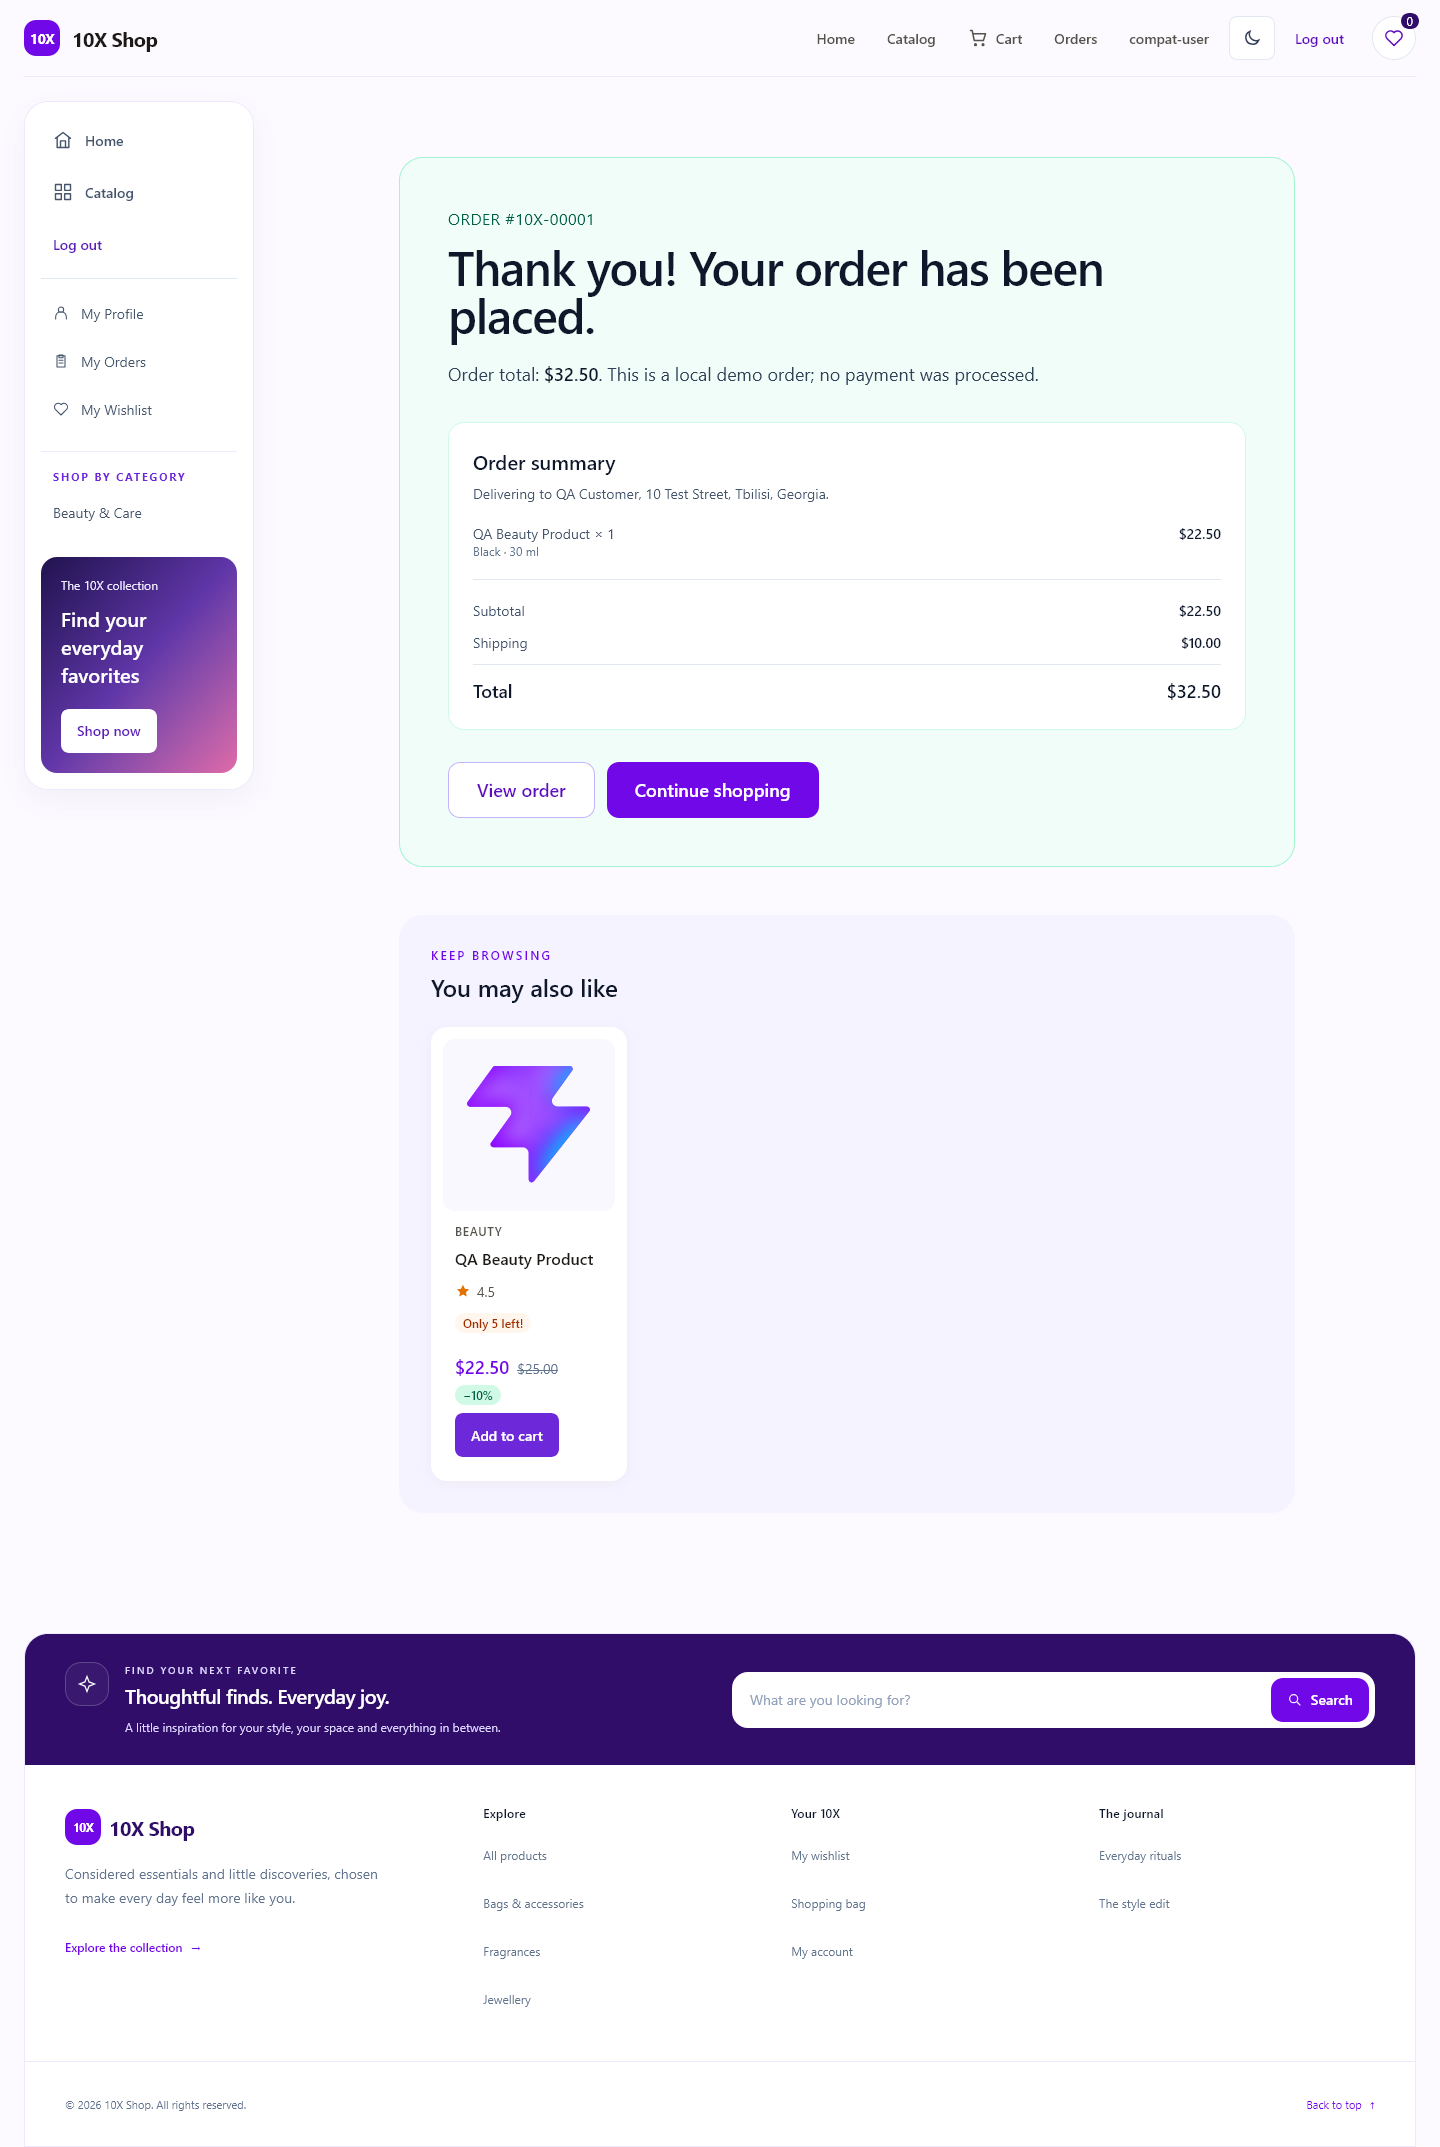
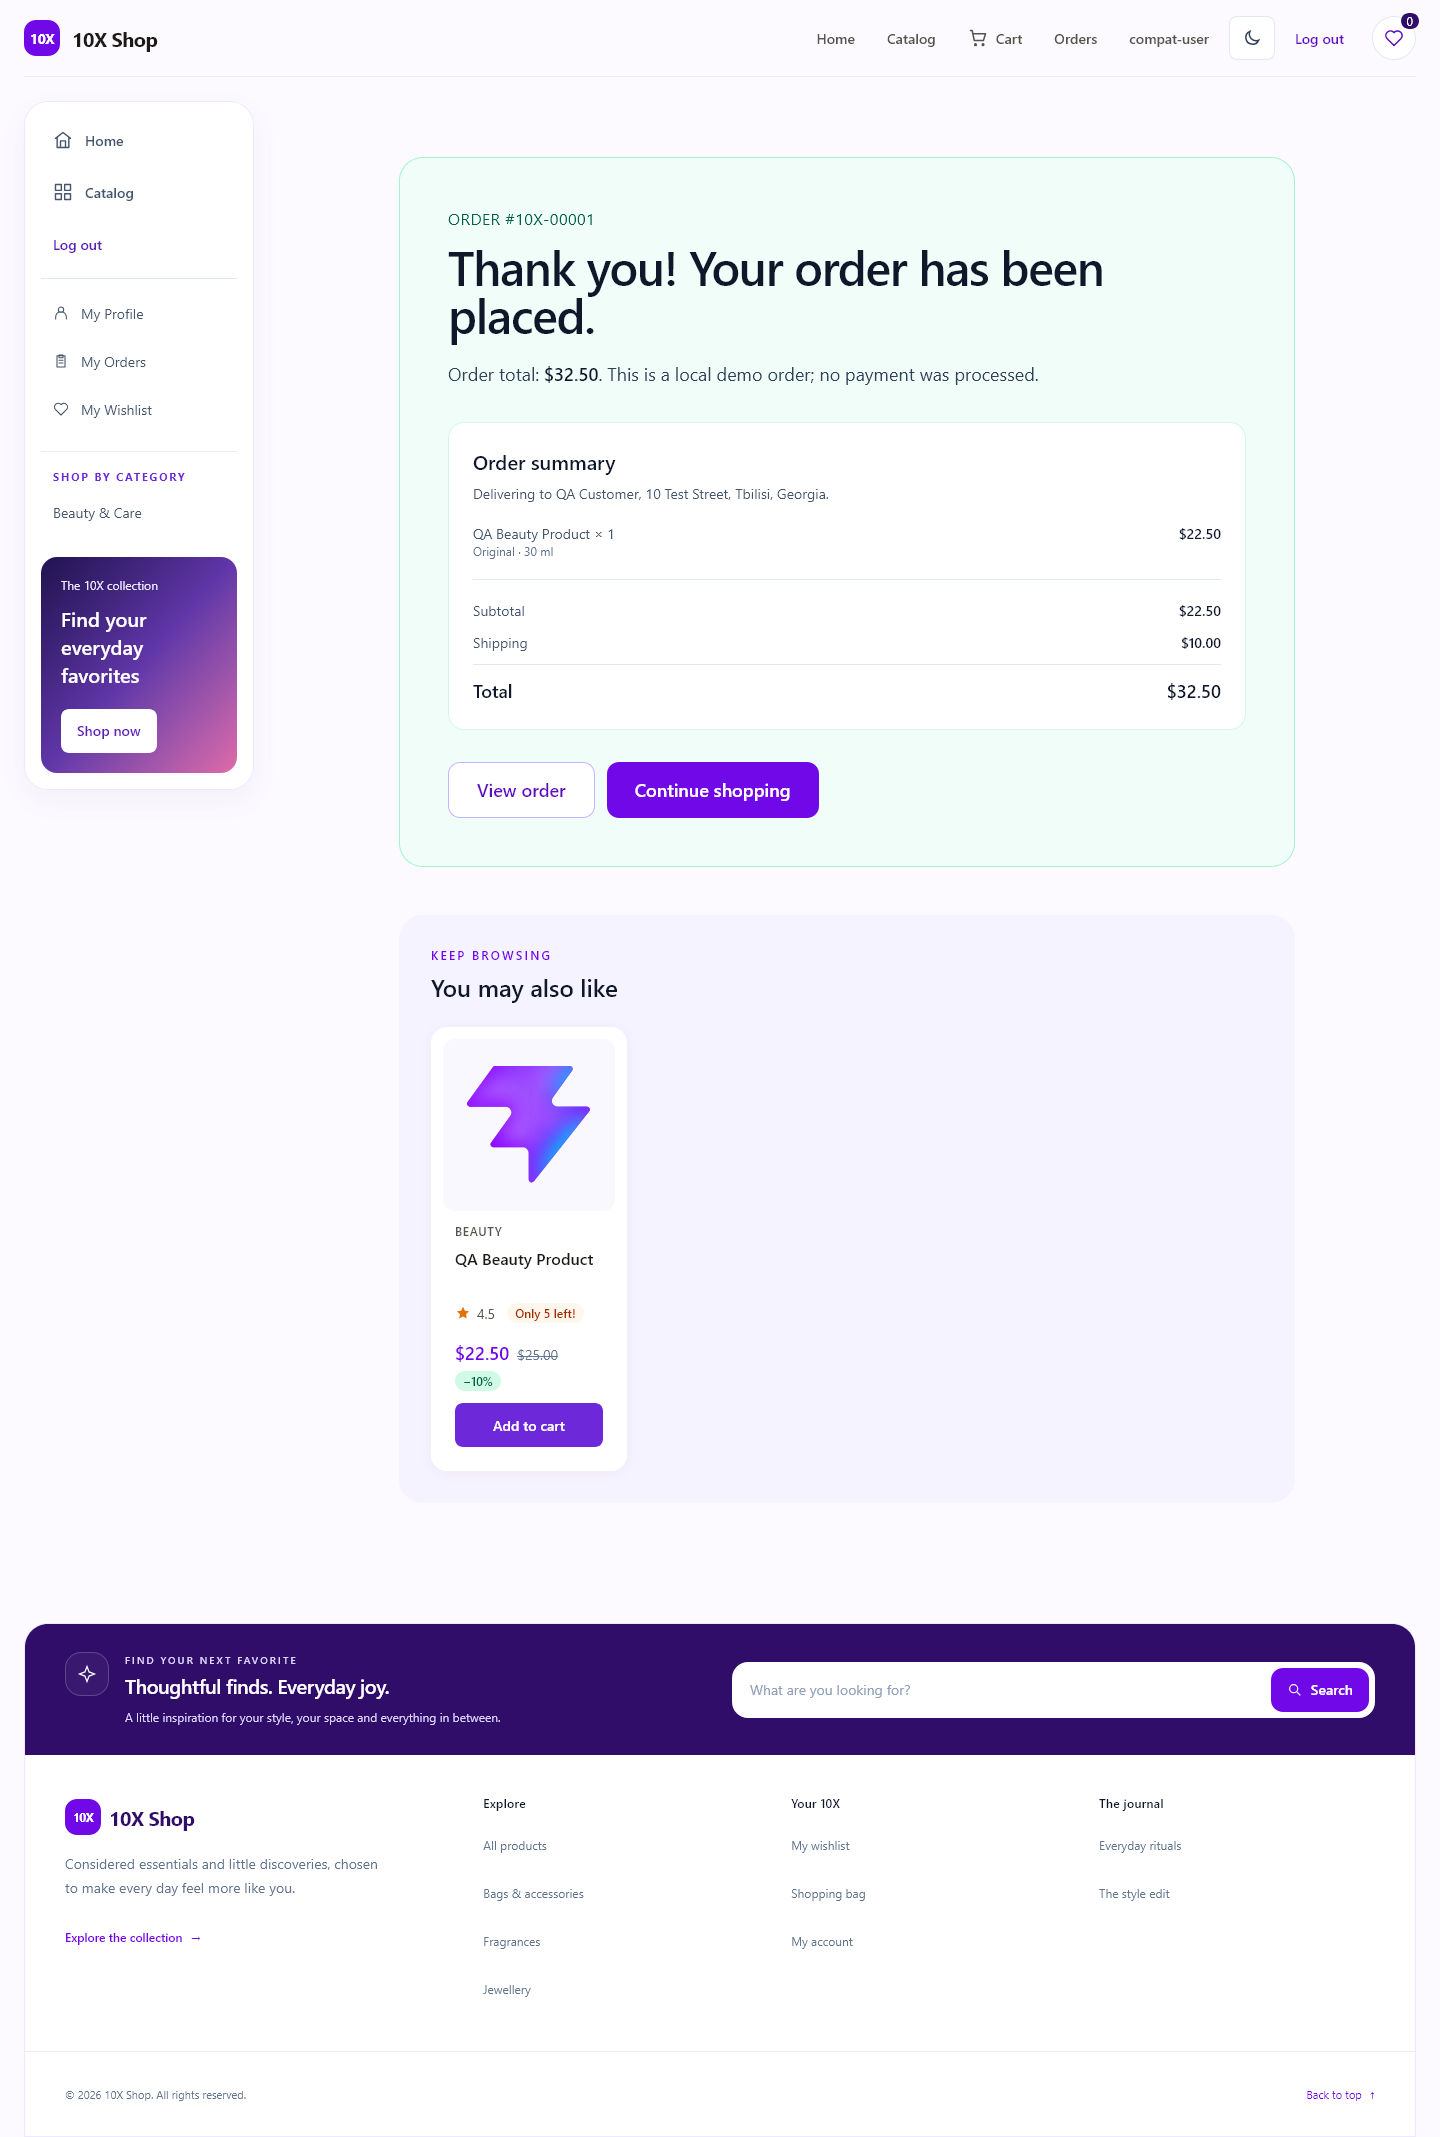
test: refresh compatibility screenshots after the card layout change
Compatibility: 52 passed, 0 failed, 2 skipped; smoke 16 passed.

diff --git a/COMPATIBILITY.md b/COMPATIBILITY.md
@@ -1,6 +1,6 @@
 # Compatibility — 10X Shop
 
-Run started (UTC): 2026-11-05T20:02:56.618Z. Duration: 65.2 seconds. Local production build: http://127.0.0.1:4173. Desktop: 1440×900; Mobile: 390×844. Chromium, Firefox, and WebKit are Playwright browser engines; branded Chrome/Firefox/Safari applications and physical phones were not tested. Firefox Mobile uses viewport and touch emulation only.
+Run started (UTC): 2026-11-05T20:15:03.062Z. Duration: 65.1 seconds. Local production build: http://127.0.0.1:4173. Desktop: 1440×900; Mobile: 390×844. Chromium, Firefox, and WebKit are Playwright browser engines; branded Chrome/Firefox/Safari applications and physical phones were not tested. Firefox Mobile uses viewport and touch emulation only.
 
 Matrix and keyboard tests replace DummyJSON responses with one fixed product (QA Beauty Product), using favicon.svg as its image. Pricing regression tests use six products with different discounts and boundary prices. This verifies the UI and shopping flow but does not verify the live API or real product images. Lighthouse uses real network requests; its results apply to the state displayed during each run. Deployed-site checks, when available, are recorded separately in docs/compat/live-results.json and QA-REPORT.md.
 
